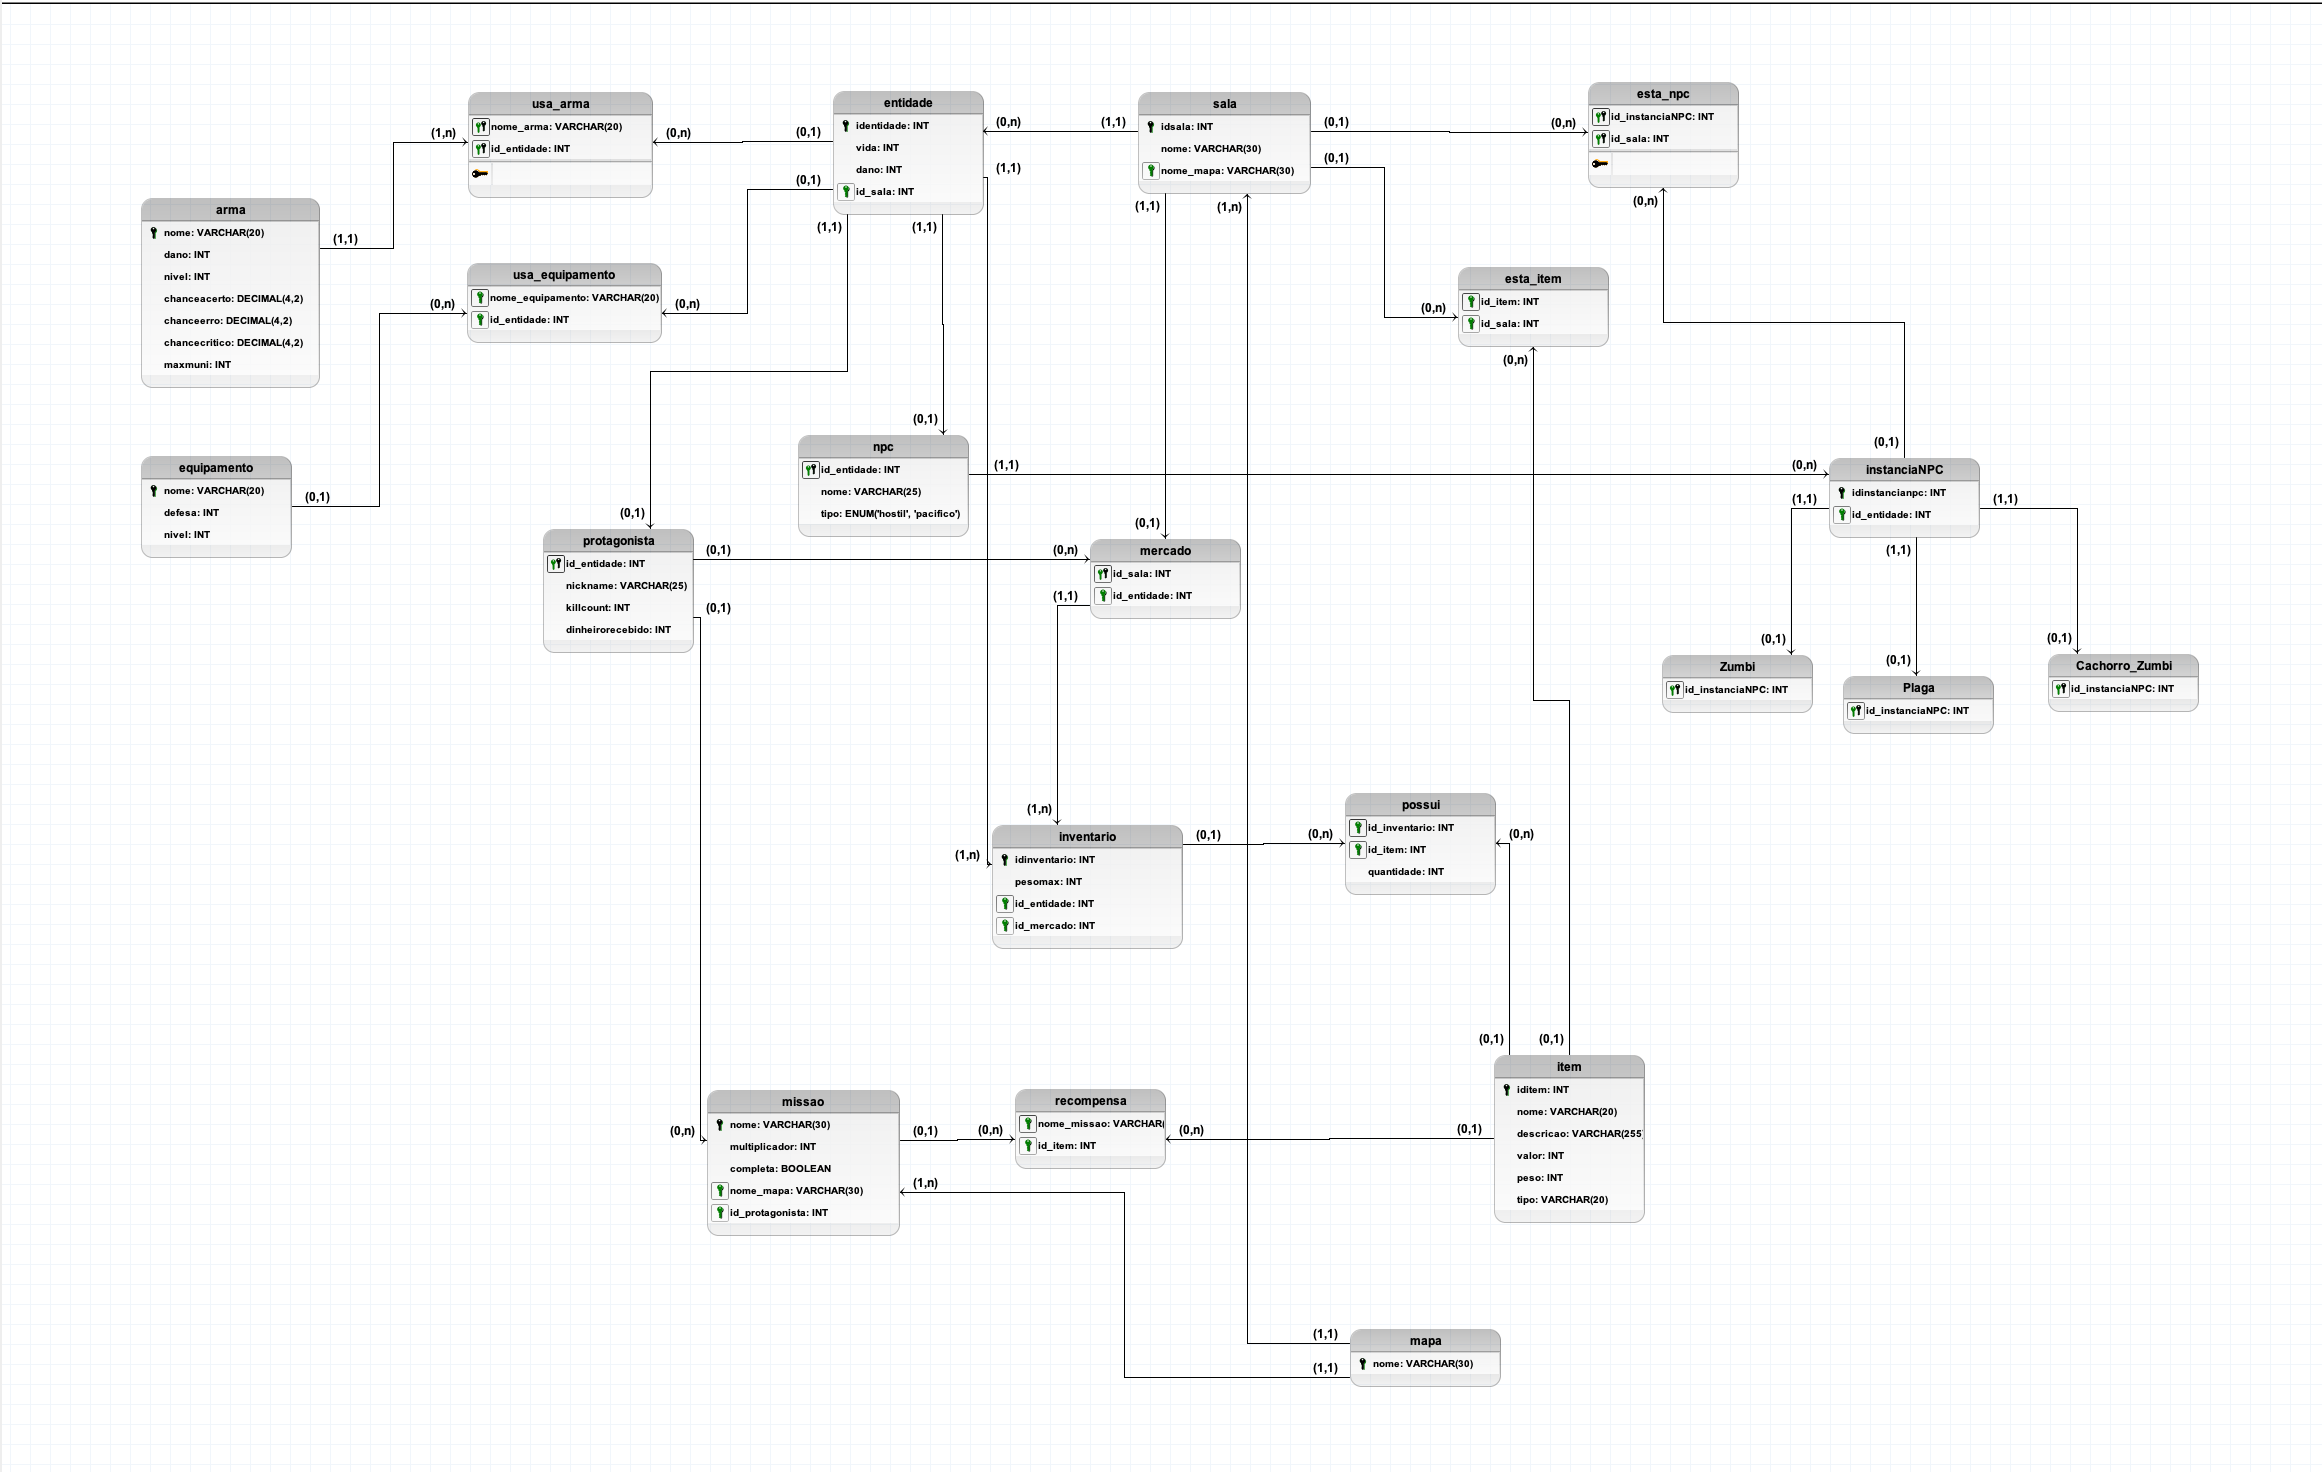
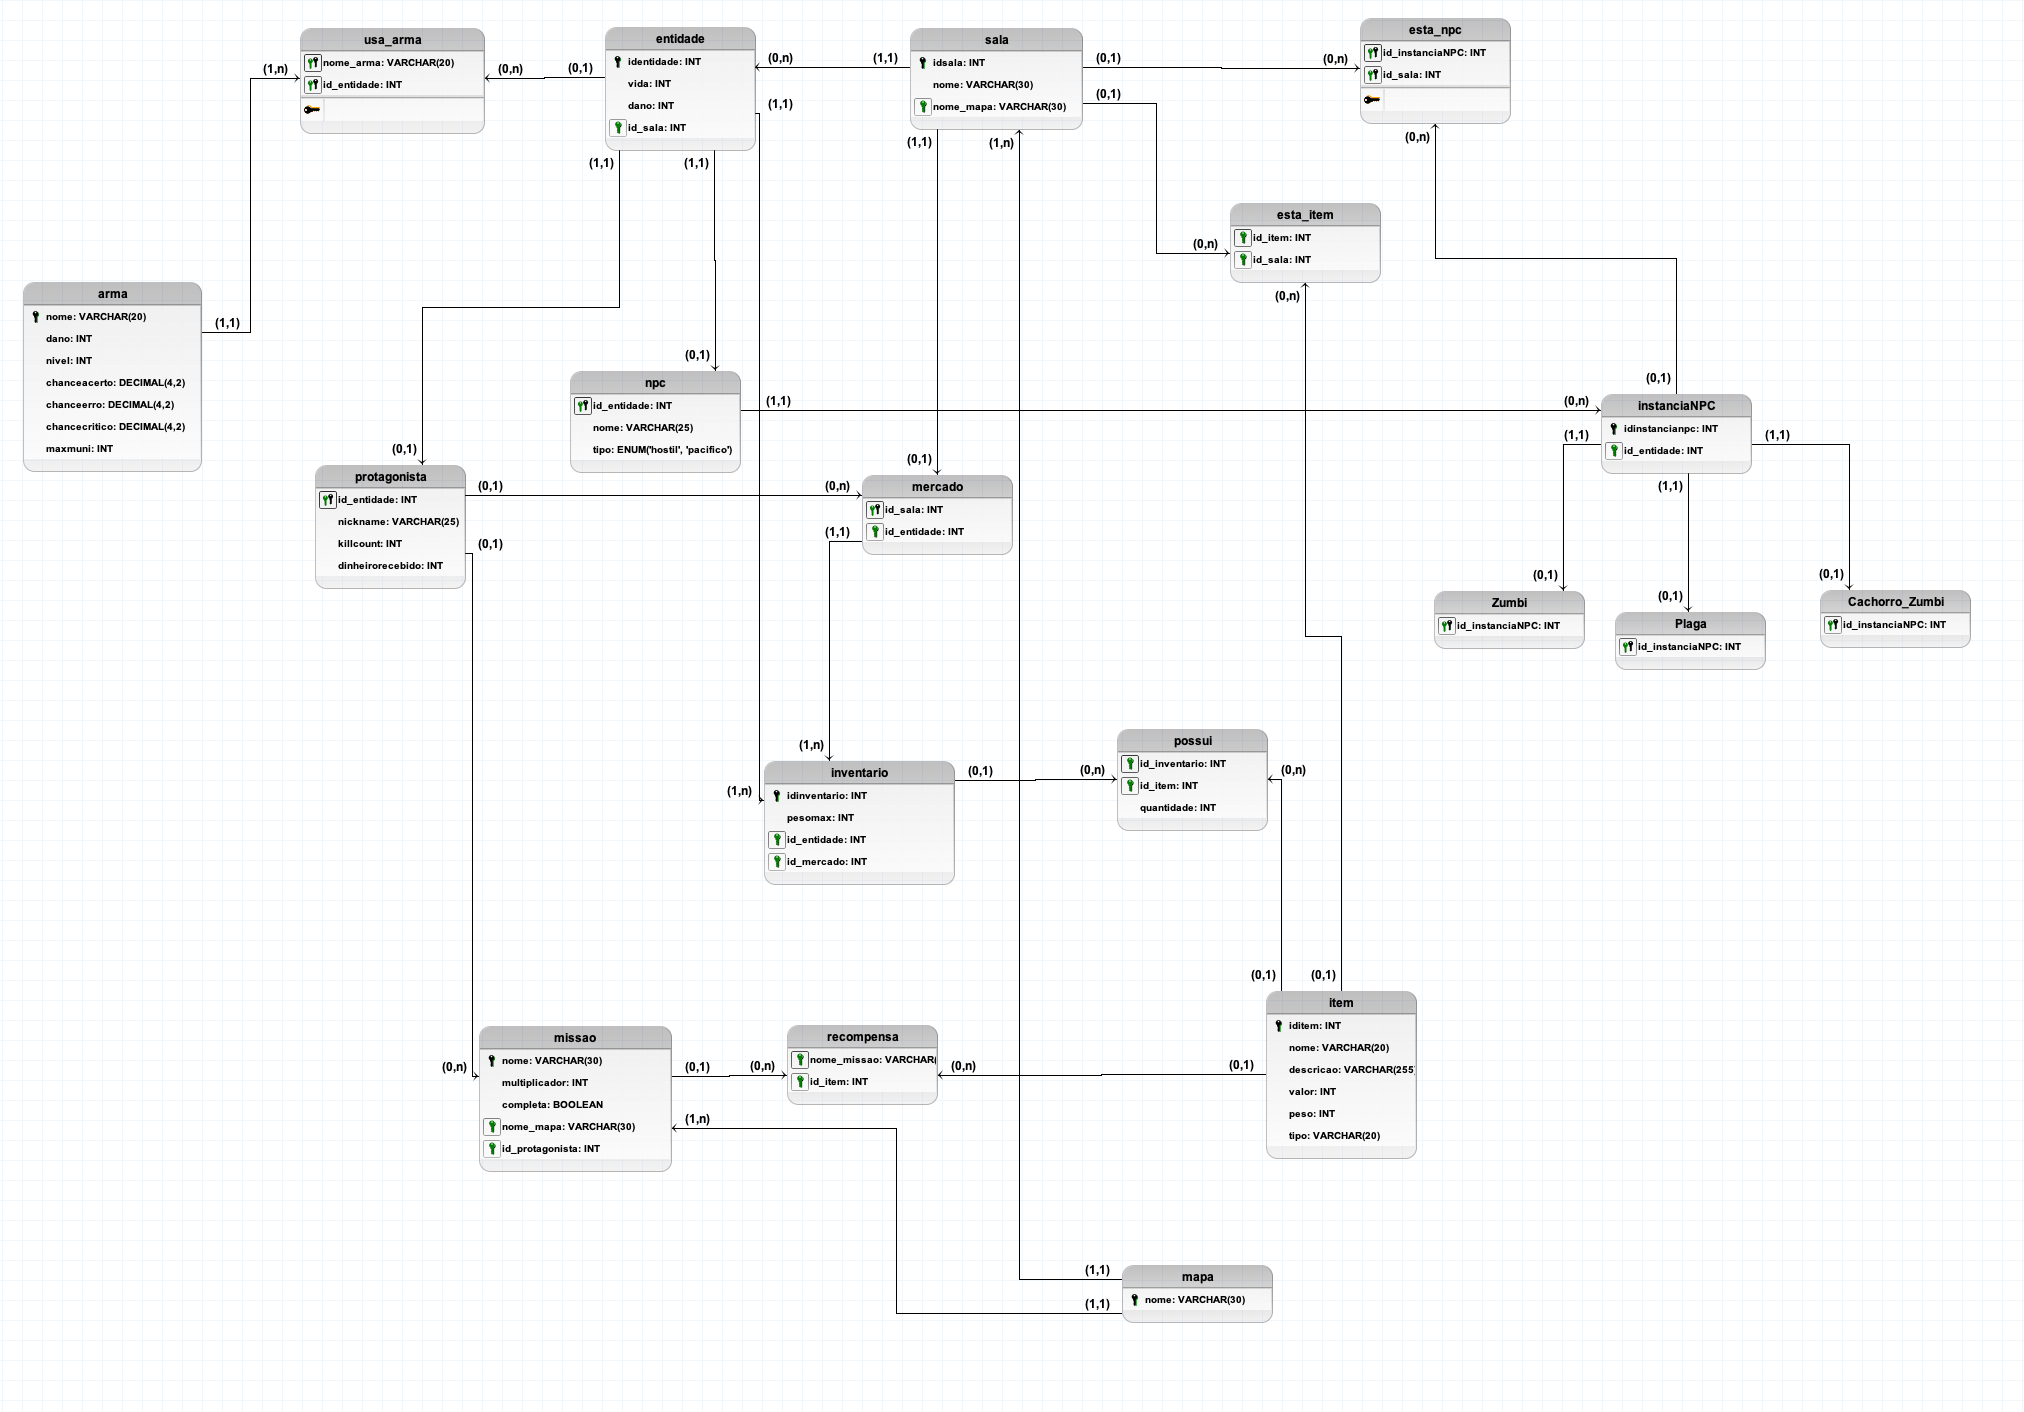
att dld 2'

diff --git a/docs/entrega1/DLD.md b/docs/entrega1/DLD.md
@@ -4,9 +4,10 @@
 Diagrama lógico de dados (DLD) do projeto de SBD1, Resident Evil.
 
 ### Imagem do DER
-![DER](../assets/DLD_resident_evil.png)
+![DER](../assets/dld.png)
 
 
  | Versão |     Descrição      |                     Autor(es)                     |    Data    |
 | :----: | :----------------: | :-----------------------------------------------: | :--------: |
 |  1.0   | Criação | [José Oliveira](https://github.com/Jose1277) | 25/11/2024 |
+|  1.1   | Alteração  | [José Oliveira](https://github.com/Jose1277) | 13/01/2025 |
